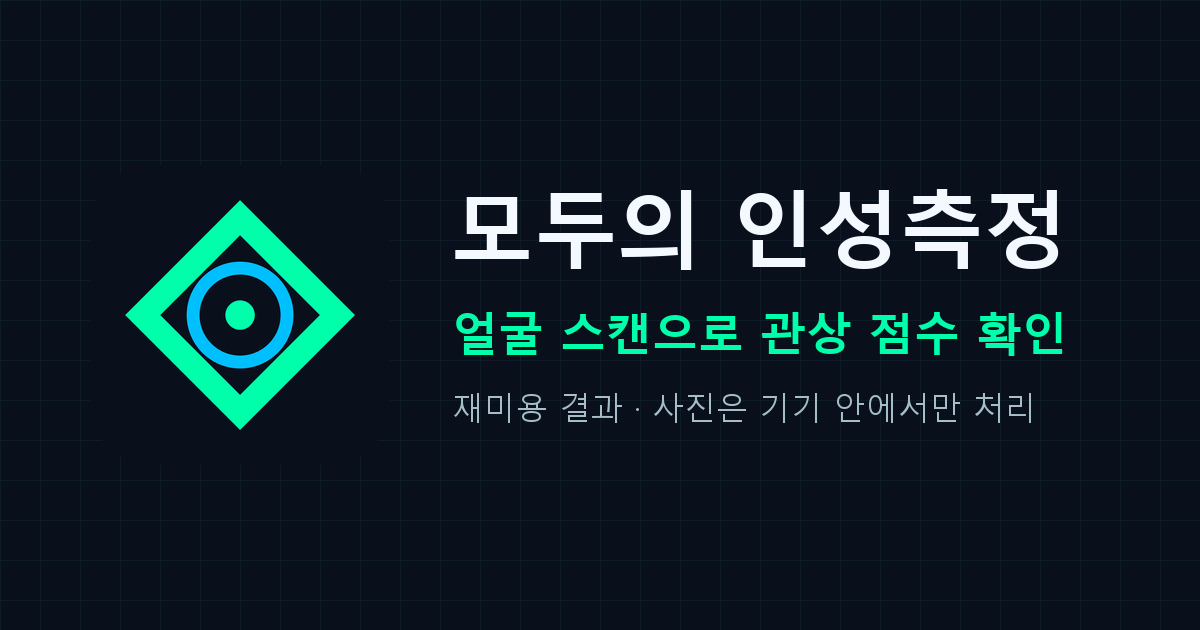
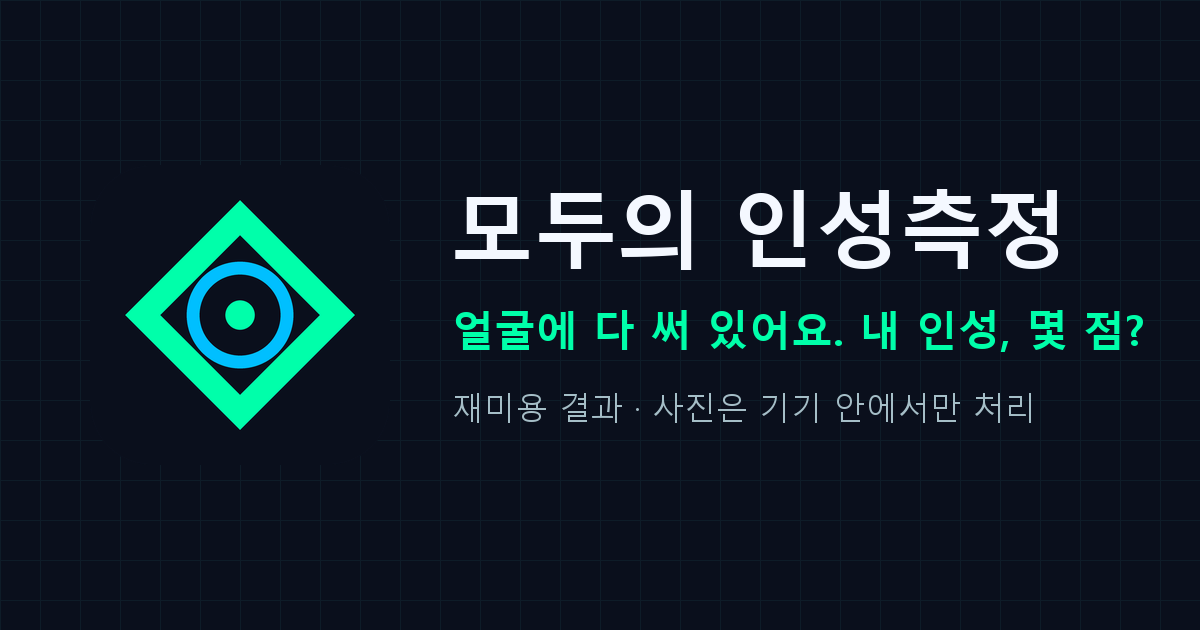
Make the home headline playful and match the share preview

Changed region(s): [[0.37, 0.4825, 0.9558, 0.573]]

diff --git a/index.html b/index.html
@@ -8,7 +8,7 @@
   <meta property="og:type" content="website"/>
   <meta property="og:locale" content="ko_KR"/>
   <meta property="og:site_name" content="모두의 인성측정"/>
-  <meta property="og:title" content="모두의 인성측정 · 얼굴 스캔으로 관상 점수 확인"/>
+  <meta property="og:title" content="모두의 인성측정 · 얼굴에 다 써 있어요, 내 인성 몇 점일까?"/>
   <meta property="og:description" content="얼굴 비율과 좌우 균형을 측정해 보여주는 재미용 관상 점수. 사진은 기기 안에서만 처리합니다."/>
   <meta property="og:url" content="__SITE_URL__"/>
   <meta property="og:image" content="__SITE_URL__og-image.png"/>

diff --git a/src/views/HomeView.vue b/src/views/HomeView.vue
@@ -65,7 +65,7 @@ async function selectPhoto(event) {
 <template>
   <div class="home">
     <section class="home-hero" aria-labelledby="home-title">
-      <h1 id="home-title" class="display">얼굴 스캔으로<br><span class="gradient">관상 점수 확인</span></h1>
+      <h1 id="home-title" class="display">얼굴에 다 써 있어요<br><span class="gradient">내 인성, 몇 점일까?</span></h1>
       <p class="hero-intro">얼굴의 비율과 좌우 균형을 측정하고 재미용 관상 점수를 확인해 보세요.</p>
       <div class="home-actions">
         <router-link class="btn btn-large neon-btn" to="/camera">카메라로 시작</router-link>
